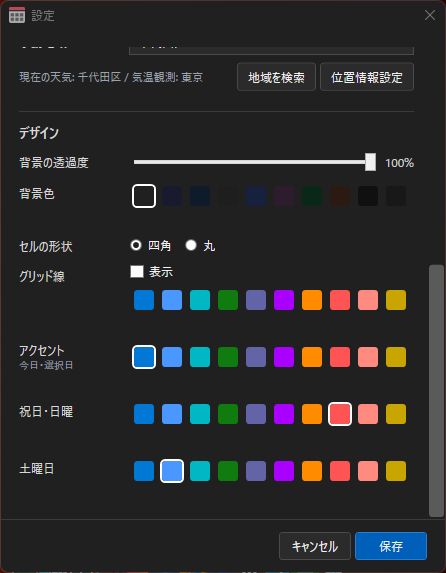
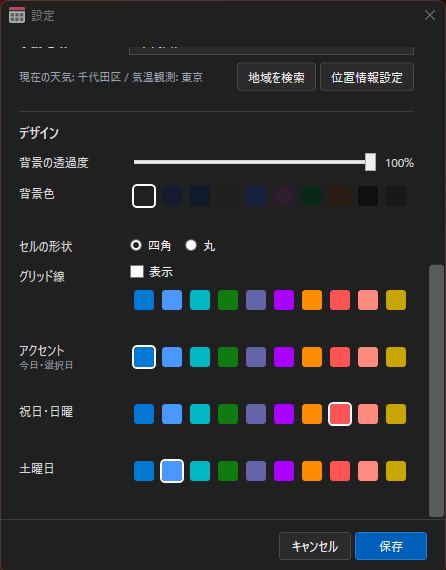
スクリーンショットプレビューを改善

diff --git a/assets/screenshot-gallery.js b/assets/screenshot-gallery.js
@@ -37,7 +37,9 @@
         <button class="screenshot-dialog-close" type="button" aria-label="閉じる">&times;</button>
       </div>
       <div class="screenshot-dialog-body">
+        <button class="screenshot-dialog-nav screenshot-dialog-prev" type="button" aria-label="前の画像へ">&#8249;</button>
         <img alt="">
+        <button class="screenshot-dialog-nav screenshot-dialog-next" type="button" aria-label="次の画像へ">&#8250;</button>
       </div>
     `;
     dialog.addEventListener('click', event => {
@@ -56,6 +58,44 @@
     const screenshots = await loadScreenshots();
     if (screenshots.length === 0) return;
 
+    let currentIndex = 0;
+    let dialog = null;
+    const move = offset => {
+      openAt(currentIndex + offset);
+    };
+    const openAt = index => {
+      currentIndex = (index + screenshots.length) % screenshots.length;
+      const shot = screenshots[currentIndex];
+      if (!dialog) {
+        dialog = buildDialog();
+        dialog.querySelector('.screenshot-dialog-prev').addEventListener('click', event => {
+          event.stopPropagation();
+          move(-1);
+        });
+        dialog.querySelector('.screenshot-dialog-next').addEventListener('click', event => {
+          event.stopPropagation();
+          move(1);
+        });
+        dialog.querySelector('img').addEventListener('click', () => {
+          if (screenshots.length > 1) move(1);
+        });
+        dialog.addEventListener('keydown', event => {
+          if (event.key === 'ArrowLeft') move(-1);
+          if (event.key === 'ArrowRight') move(1);
+        });
+      }
+
+      dialog.querySelector('.screenshot-dialog-title').textContent =
+        `${shot.title} (${currentIndex + 1}/${screenshots.length})`;
+      const image = dialog.querySelector('img');
+      image.src = shot.src;
+      image.alt = shot.alt;
+      dialog.querySelectorAll('.screenshot-dialog-nav').forEach(button => {
+        button.hidden = screenshots.length < 2;
+      });
+      if (!dialog.open) dialog.showModal();
+    };
+
     const gallery = document.createElement('div');
     gallery.className = 'screenshot-gallery';
     gallery.innerHTML = `
@@ -64,7 +104,7 @@
     `;
 
     const strip = gallery.querySelector('.screenshot-strip');
-    for (const shot of screenshots) {
+    for (const [index, shot] of screenshots.entries()) {
       const button = document.createElement('button');
       button.className = 'screenshot-thumb';
       button.type = 'button';
@@ -72,14 +112,7 @@
         <img src="${escapeHtml(shot.thumb)}" alt="${escapeHtml(shot.alt)}" loading="lazy">
         <span>${escapeHtml(shot.title)}</span>
       `;
-      button.addEventListener('click', () => {
-        const dialog = document.querySelector('.screenshot-dialog') || buildDialog();
-        dialog.querySelector('.screenshot-dialog-title').textContent = shot.title;
-        const image = dialog.querySelector('img');
-        image.src = shot.src;
-        image.alt = shot.alt;
-        if (!dialog.open) dialog.showModal();
-      });
+      button.addEventListener('click', () => openAt(index));
       strip.appendChild(button);
     }
 

diff --git a/assets/screenshot-gallery.css b/assets/screenshot-gallery.css
@@ -92,6 +92,7 @@
   border-color: var(--accent);
 }
 .screenshot-dialog-body {
+  position: relative;
   padding: 12px;
 }
 .screenshot-dialog img {
@@ -101,9 +102,41 @@
   margin: 0 auto;
   border-radius: 8px;
   background: #0a1022;
+  cursor: pointer;
+}
+.screenshot-dialog-nav {
+  appearance: none;
+  position: absolute;
+  top: 50%;
+  transform: translateY(-50%);
+  width: 42px;
+  height: 58px;
+  border: 1px solid rgba(255, 255, 255, 0.24);
+  border-radius: 8px;
+  background: rgba(7, 11, 22, 0.76);
+  color: var(--fg);
+  font-size: 34px;
+  line-height: 1;
+  cursor: pointer;
+  z-index: 1;
+}
+.screenshot-dialog-nav:hover {
+  border-color: var(--accent);
+  background: rgba(18, 26, 46, 0.94);
+}
+.screenshot-dialog-prev {
+  left: 18px;
+}
+.screenshot-dialog-next {
+  right: 18px;
 }
 @media (max-width: 600px) {
   .screenshot-thumb {
     width: 132px;
+  }
+  .screenshot-dialog-nav {
+    width: 36px;
+    height: 48px;
+    font-size: 28px;
   }
 }
